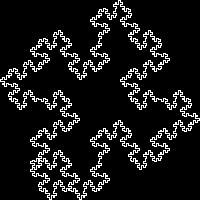
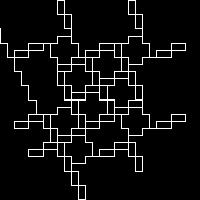
basic (just about) functioning gui

Changed region(s): [[0.0, 0.0, 1.0, 1.0], [0.12, 0.75, 0.15, 0.78]]

diff --git a/gui.py b/gui.py
@@ -1,0 +1,172 @@
+import sys
+from PyQt6 import QtCore
+from PyQt6.QtGui import QPixmap
+from PyQt6.QtWidgets import *
+from dataclasses import dataclass
+
+# from PyQt6
+from lsystems.generator import Generator
+from lsystems.lsys import Lsys
+
+
+class Window(QWidget):
+    def __init__(self, parent=None):
+        super().__init__(parent)
+        self.initWindow()
+
+    def initWindow(self):
+        # super().__init__()
+        self.setWindowTitle("window title")
+        self.setGeometry(200, 500, 400, 300)
+        # MainWindow.resize(422, 255)
+        # self.centralwidget = QWidget(MainWindow)
+        # self.createGridLayout()
+
+        # self.createGridLayout()
+
+        # # Want an example that lets you add an lsystem and add its rules
+        self.addLSysButton = QPushButton("word1")
+        # # self.addLSysButton.setGeometry(QtCore.QRect(160, 130, 93, 28))
+
+        self.generateButton = QPushButton("word2")
+        # # self.generateButton.setGeometry(QtCore.QRect(160, 110, 93, 28))
+
+        self.label = QLabel()
+        # # self.label.setGeometry(QtCore.QRect(220, 40, 201, 111))
+
+        self.label.setText("")
+
+        # MainWindow.setCentralWidget(self.centralwidget)
+        # MainWindow.setWindowTitle("example title")
+        self.addLSysButton.setText("button")
+        self.addLSysButton.clicked.connect(self.get_input)
+        self.generateButton.setText("generate")
+        self.generateButton.clicked.connect(self.generate)
+        # QtCore.QMetaObject.connectSlotsByName(MainWindow)
+
+        self.show_button = QPushButton("Show")
+        self.show_button.clicked.connect(self.openSecondDialog)
+
+        # vbox = QVBoxLayout(self)
+        # vbox.addWidget(self.addLSysButton)
+        # vbox.addWidget(self.generateButton)
+        # vbox.addWidget(self.show_button)
+        self.createGridLayout()
+        self.show()
+
+        self.data = Data()
+
+    def createGridLayout(self):
+        # self.horizontalGroupBox = QGroupBox("Grid")
+        layout = QGridLayout()
+        layout.setColumnStretch(1, 4)
+        layout.setColumnStretch(2, 4)
+
+        layout.addWidget(self.addLSysButton, 0, 0)
+        layout.addWidget(self.generateButton, 0, 1)
+        layout.addWidget(self.show_button, 0, 2)
+        layout.addWidget(self.label, 1, 1)
+
+        self.setLayout(layout)
+
+    def openSecondDialog(self):
+        dialog = Dialog(self)
+        dialog.show()
+
+    def get_input(self):
+        key, done1 = QInputDialog.getText(self, "Input Dialog", "Enter rule key:")
+
+        rule, done2 = QInputDialog.getText(self, "Input dialog2", "Enter rule item:")
+
+        if done1 and done2:
+            self.data.add_rule(key, rule)
+            self.update_label()
+            # self.addLSysButton.hide()
+
+    def update_label(self):
+        s = "\n".join(str(r) + " -> " + str(k) for r, k in self.data.rules.items())
+        self.label.setText("Rules:\n" + s)
+
+    def generate(self):
+        assert self.data.rules is not {}
+        lsys = Lsys(self.data.alphabet, self.data.rules)
+        g = Generator(lsys, "F-F-F-F", 3)
+        steps, history = g.generate_tortoise()
+        from lsystems.draw import draw_coords
+
+        from PIL import Image
+
+        im = draw_coords(history, 200)
+        im.save("image.jpg")
+
+        # self.img = QPixmap("./image.jpg")
+        # self.label = QLabel()
+        # self.label.setPixmap(self.img)
+
+        # self.grid = QGridLayout()
+        # self.grid.addWidget(self.label, 1, 1)
+        # self.setLayout(self.grid)
+
+        # app = QApplication(sys.argv)
+        # ex = Example()
+        # app.exec()
+
+
+class Data:
+    def __init__(self):
+        self.rules = {}
+
+        self.alphabet = ["F", "f", "+", "-"]
+
+    def add_rule(self, key, value):
+        self.rules[key] = value
+
+
+class Dialog(QDialog):
+    def __init__(self, parent=None):
+        super().__init__(parent)
+
+        # self.load_image_btn = QPushButton("Check image")
+        # self.load_image_btn.clicked.connect(self.load_image)
+        self.image_lbl = QLabel()
+        lay = QVBoxLayout(self)
+        # lay.addWidget(self.load_image_btn)
+        lay.addWidget(self.image_lbl)
+        self.load_image()
+
+    def load_image(self):
+        image_path = "./image.jpg"
+        if image_path:
+            pixmap = QPixmap(image_path)
+            self.image_lbl.setPixmap(QPixmap(pixmap))
+
+
+# class Example(QWidget):
+#     def __init__(self):
+#         super().__init__()
+
+#         self.im = QPixmap("./image.jpg")
+#         self.label = QLabel()
+#         self.label.setPixmap(self.im)
+
+#         width, height = self.im.width(), self.im.height()
+
+#         self.grid = QGridLayout()
+#         self.grid.addWidget(self.label, 1, 1)
+#         self.setLayout(self.grid)
+
+#         self.setGeometry(0, 0, width, height)
+#         self.setWindowTitle("PyQT show image")
+#         self.show()
+
+
+if __name__ == "__main__":
+    app = QApplication(sys.argv)
+    # MainWindow = QMainWindow()
+    # ui = Window()
+    # ui.setupUi(MainWindow)
+    # MainWindow.show()
+    window = Window()
+    window.show()
+
+    sys.exit(app.exec())

diff --git a/lsystems/generator.py b/lsystems/generator.py
@@ -14,7 +14,7 @@ class Generator:
         return steps
 
     def generate_tortoise(self):
-        from tortoise import Tortoise
+        from lsystems.tortoise import Tortoise
 
         predecessors = self.axiom
         steps = [self.axiom]
